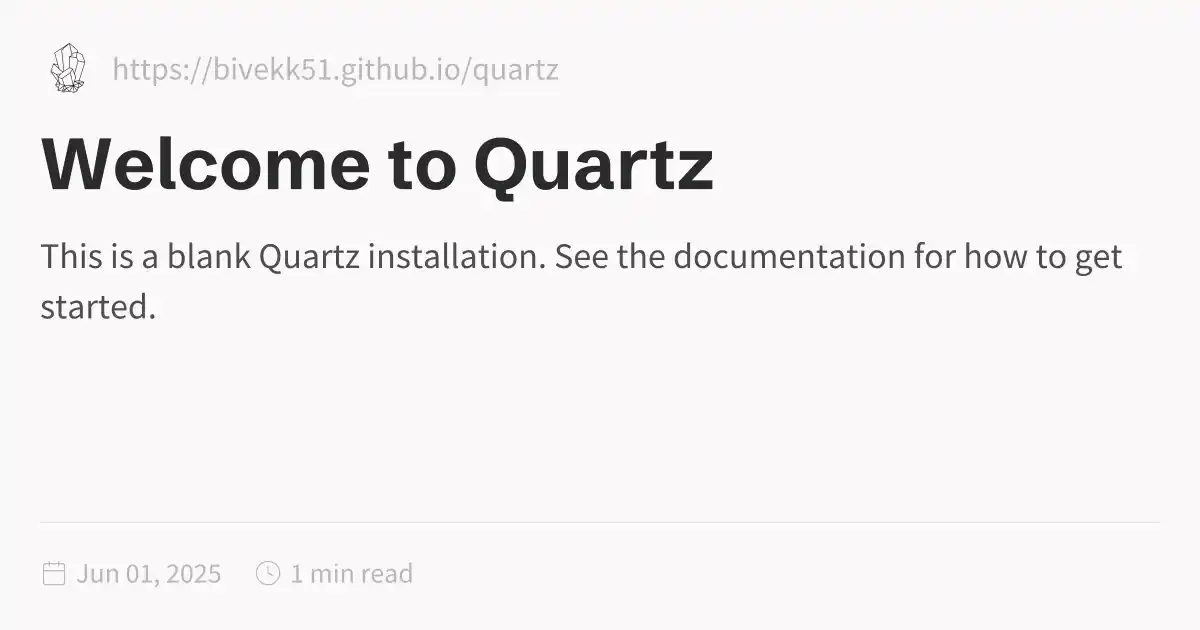
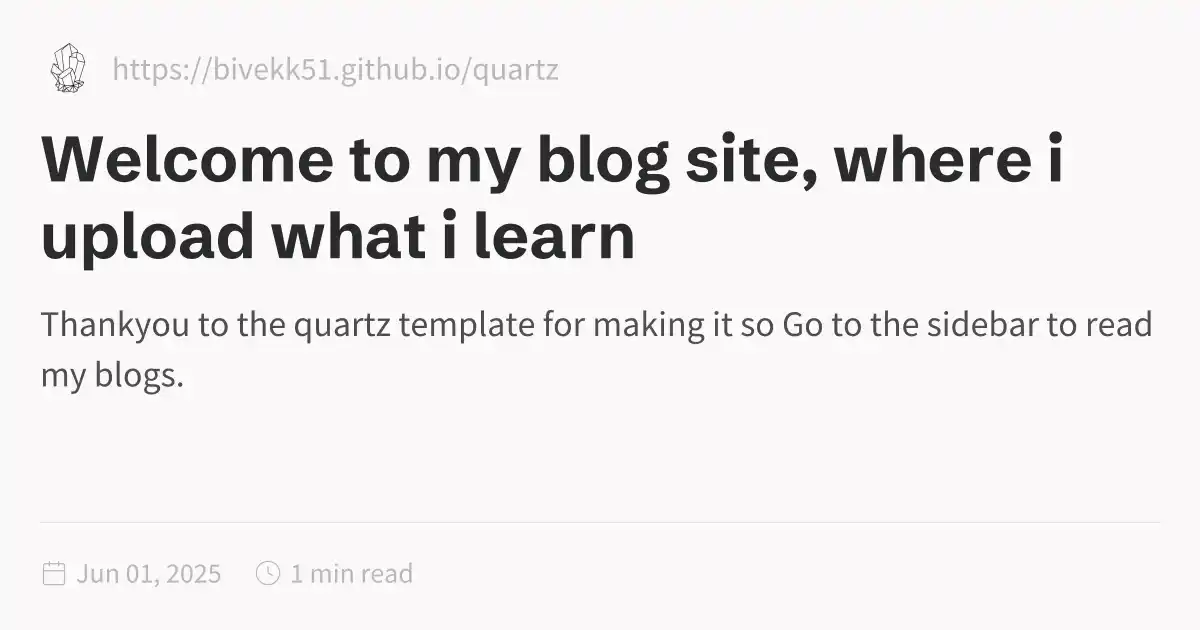
Updates

Changed region(s): [[0.0308, 0.2111, 0.9558, 0.5429], [0.0308, 0.573, 0.1542, 0.6333]]

diff --git a/index.html b/index.html
@@ -1,5 +1,5 @@
 <!DOCTYPE html>
-<html lang="en"><head><title>Welcome to Quartz</title><meta charset="utf-8"/><link rel="preconnect" href="https://fonts.googleapis.com"/><link rel="preconnect" href="https://fonts.gstatic.com"/><link rel="stylesheet" href="https://fonts.googleapis.com/css2?family=Schibsted Grotesk:wght@400;700&amp;family=Source Sans Pro:ital,wght@0,400;0,600;1,400;1,600&amp;family=IBM Plex Mono:wght@400;600&amp;display=swap"/><link rel="preconnect" href="https://cdnjs.cloudflare.com" crossorigin="anonymous"/><meta name="viewport" content="width=device-width, initial-scale=1.0"/><meta name="og:site_name" content="Bivek Learns"/><meta property="og:title" content="Welcome to Quartz"/><meta property="og:type" content="website"/><meta name="twitter:card" content="summary_large_image"/><meta name="twitter:title" content="Welcome to Quartz"/><meta name="twitter:description" content="This is a blank Quartz installation. See the documentation for how to get started."/><meta property="og:description" content="This is a blank Quartz installation. See the documentation for how to get started."/><meta property="og:image:alt" content="This is a blank Quartz installation. See the documentation for how to get started."/><meta property="twitter:domain" content="https://bivekk51.github.io/quartz"/><meta property="og:url" content="https://https//bivekk51.github.io/quartz/index"/><meta property="twitter:url" content="https://https//bivekk51.github.io/quartz/index"/><link rel="icon" href="./static/icon.png"/><meta name="description" content="This is a blank Quartz installation. See the documentation for how to get started."/><meta name="generator" content="Quartz"/><link href="./index.css" rel="stylesheet" type="text/css" spa-preserve/><style>.expand-button {
+<html lang="en"><head><title>Welcome to my blog site, where i upload what i learn</title><meta charset="utf-8"/><link rel="preconnect" href="https://fonts.googleapis.com"/><link rel="preconnect" href="https://fonts.gstatic.com"/><link rel="stylesheet" href="https://fonts.googleapis.com/css2?family=Schibsted Grotesk:wght@400;700&amp;family=Source Sans Pro:ital,wght@0,400;0,600;1,400;1,600&amp;family=IBM Plex Mono:wght@400;600&amp;display=swap"/><link rel="preconnect" href="https://cdnjs.cloudflare.com" crossorigin="anonymous"/><meta name="viewport" content="width=device-width, initial-scale=1.0"/><meta name="og:site_name" content="Bivek Learns"/><meta property="og:title" content="Welcome to my blog site, where i upload what i learn"/><meta property="og:type" content="website"/><meta name="twitter:card" content="summary_large_image"/><meta name="twitter:title" content="Welcome to my blog site, where i upload what i learn"/><meta name="twitter:description" content="Thankyou to the quartz template for making it so Go to the sidebar to read my blogs."/><meta property="og:description" content="Thankyou to the quartz template for making it so Go to the sidebar to read my blogs."/><meta property="og:image:alt" content="Thankyou to the quartz template for making it so Go to the sidebar to read my blogs."/><meta property="twitter:domain" content="https://bivekk51.github.io/quartz"/><meta property="og:url" content="https://https//bivekk51.github.io/quartz/index"/><meta property="twitter:url" content="https://https//bivekk51.github.io/quartz/index"/><link rel="icon" href="./static/icon.png"/><meta name="description" content="Thankyou to the quartz template for making it so Go to the sidebar to read my blogs."/><meta name="generator" content="Quartz"/><link href="./index.css" rel="stylesheet" type="text/css" spa-preserve/><style>.expand-button {
   position: absolute;
   display: flex;
   float: right;
@@ -116,8 +116,8 @@ pre:hover > .expand-button {
   padding: 0 12px;
   font-size: 14px;
 }
[1 lines of base64/hex data omitted]
-See the <a href="https://quartz.jzhao.xyz" class="external">documentation<svg aria-hidden="true" class="external-icon" style="max-width:0.8em;max-height:0.8em;" viewBox="0 0 512 512"><path d="M320 0H288V64h32 82.7L201.4 265.4 178.7 288 224 333.3l22.6-22.6L448 109.3V192v32h64V192 32 0H480 320zM32 32H0V64 480v32H32 456h32V480 352 320H424v32 96H64V96h96 32V32H160 32z"></path></svg></a> for how to get started.</p></article><hr/><div class="page-footer"></div></div><div class="right sidebar"><div class="graph"><h3>Graph View</h3><div class="graph-outer"><div class="graph-container" data-cfg="{&quot;drag&quot;:true,&quot;zoom&quot;:true,&quot;depth&quot;:1,&quot;scale&quot;:1.1,&quot;repelForce&quot;:0.5,&quot;centerForce&quot;:0.3,&quot;linkDistance&quot;:30,&quot;fontSize&quot;:0.6,&quot;opacityScale&quot;:1,&quot;showTags&quot;:true,&quot;removeTags&quot;:[],&quot;focusOnHover&quot;:false,&quot;enableRadial&quot;:false}"></div><button class="global-graph-icon" aria-label="Global Graph"><svg version="1.1" xmlns="http://www.w3.org/2000/svg" xmlns:xlink="http://www.w3.org/1999/xlink" x="0px" y="0px" viewBox="0 0 55 55" fill="currentColor" xml:space="preserve"><path d="M49,0c-3.309,0-6,2.691-6,6c0,1.035,0.263,2.009,0.726,2.86l-9.829,9.829C32.542,17.634,30.846,17,29,17
[1 lines of base64/hex data omitted]
+Go to the sidebar to read my blogs</p></article><hr/><div class="page-footer"></div></div><div class="right sidebar"><div class="graph"><h3>Graph View</h3><div class="graph-outer"><div class="graph-container" data-cfg="{&quot;drag&quot;:true,&quot;zoom&quot;:true,&quot;depth&quot;:1,&quot;scale&quot;:1.1,&quot;repelForce&quot;:0.5,&quot;centerForce&quot;:0.3,&quot;linkDistance&quot;:30,&quot;fontSize&quot;:0.6,&quot;opacityScale&quot;:1,&quot;showTags&quot;:true,&quot;removeTags&quot;:[],&quot;focusOnHover&quot;:false,&quot;enableRadial&quot;:false}"></div><button class="global-graph-icon" aria-label="Global Graph"><svg version="1.1" xmlns="http://www.w3.org/2000/svg" xmlns:xlink="http://www.w3.org/1999/xlink" x="0px" y="0px" viewBox="0 0 55 55" fill="currentColor" xml:space="preserve"><path d="M49,0c-3.309,0-6,2.691-6,6c0,1.035,0.263,2.009,0.726,2.86l-9.829,9.829C32.542,17.634,30.846,17,29,17
                 s-3.542,0.634-4.898,1.688l-7.669-7.669C16.785,10.424,17,9.74,17,9c0-2.206-1.794-4-4-4S9,6.794,9,9s1.794,4,4,4
                 c0.74,0,1.424-0.215,2.019-0.567l7.669,7.669C21.634,21.458,21,23.154,21,25s0.634,3.542,1.688,4.897L10.024,42.562
                 C8.958,41.595,7.549,41,6,41c-3.309,0-6,2.691-6,6s2.691,6,6,6s6-2.691,6-6c0-1.035-0.263-2.009-0.726-2.86l12.829-12.829

diff --git a/InterPlanetary-File-System.html b/InterPlanetary-File-System.html
@@ -116,20 +116,20 @@ pre:hover > .expand-button {
   padding: 0 12px;
   font-size: 14px;
 }
[2 lines of base64/hex data omitted]
 <li>Blockchains are great for recording transactions, but they can’t store large data like PDFs, images, or videos. That’s where IPFS comes in</li>
 <li>IPFS  is a distributed peer-to-peer file storage system.</li>
 <li><strong>Simply:</strong> Imagine Google Drive, Mega or Dropbox but it doesn’t rely on central servers but is rather distributed</li>
 <li>Traditional web rely location-based URLs like:
 <code>https://myserver.com/images/certificate.png</code></li>
-<li>But IPFS retrieve files based on what they are. It uses hashing to create a unique identifier(CID- Content Idenifier).</li>
+<li>But IPFS retrieves files based on what they are. It uses hashing to create a unique identifier(CID- Content Idenifier).</li>
 <li>Then anyone can get the file from the hash.</li>
 <li>Explaining it using real-life analogy: Instead of saying go to <code>Room XY</code> or <code>Page XY</code> IPFS says find the topic by using unique hash <code>xyz123</code>
 <img src="./NzY4JmZtPXBuZw.png" width="auto" height="auto" alt/></li>
 </ul>
 <h3 id="how-ipfs-works">How IPFS Works:<a role="anchor" aria-hidden="true" tabindex="-1" data-no-popover="true" href="#how-ipfs-works" class="internal"><svg width="18" height="18" viewBox="0 0 24 24" fill="none" stroke="currentColor" stroke-width="2" stroke-linecap="round" stroke-linejoin="round"><path d="M10 13a5 5 0 0 0 7.54.54l3-3a5 5 0 0 0-7.07-7.07l-1.72 1.71"></path><path d="M14 11a5 5 0 0 0-7.54-.54l-3 3a5 5 0 0 0 7.07 7.07l1.71-1.71"></path></svg></a></h3>
 <ul>
-<li>Every file that user adds becomes a CID(<a href="#content-idenifier" class="internal alias">Content Idenifier</a>); a simple change in the file entirely changes the CID.</li>
+<li>Every file that an user adds becomes a CID(<a href="#content-idenifier" class="internal alias">Content Idenifier</a>); a simple change in the file entirely changes the CID.</li>
 <li>As said in the previous point, the files become immutable and even a simple change will entirely change the CID.</li>
 <li>Large files are broken down into smaller chunks. IPFS does this by creating a Directed Acyclic Graph(DAG) where:
 <ul>
